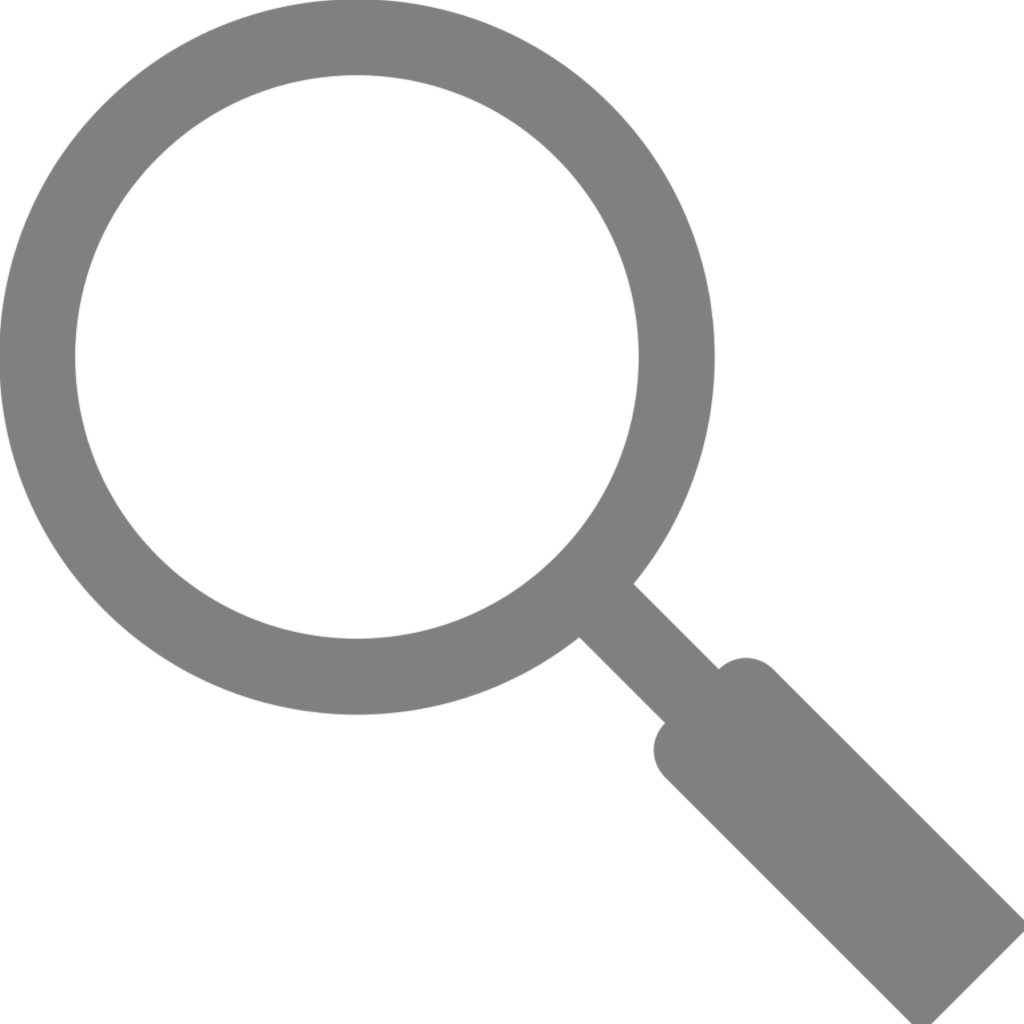
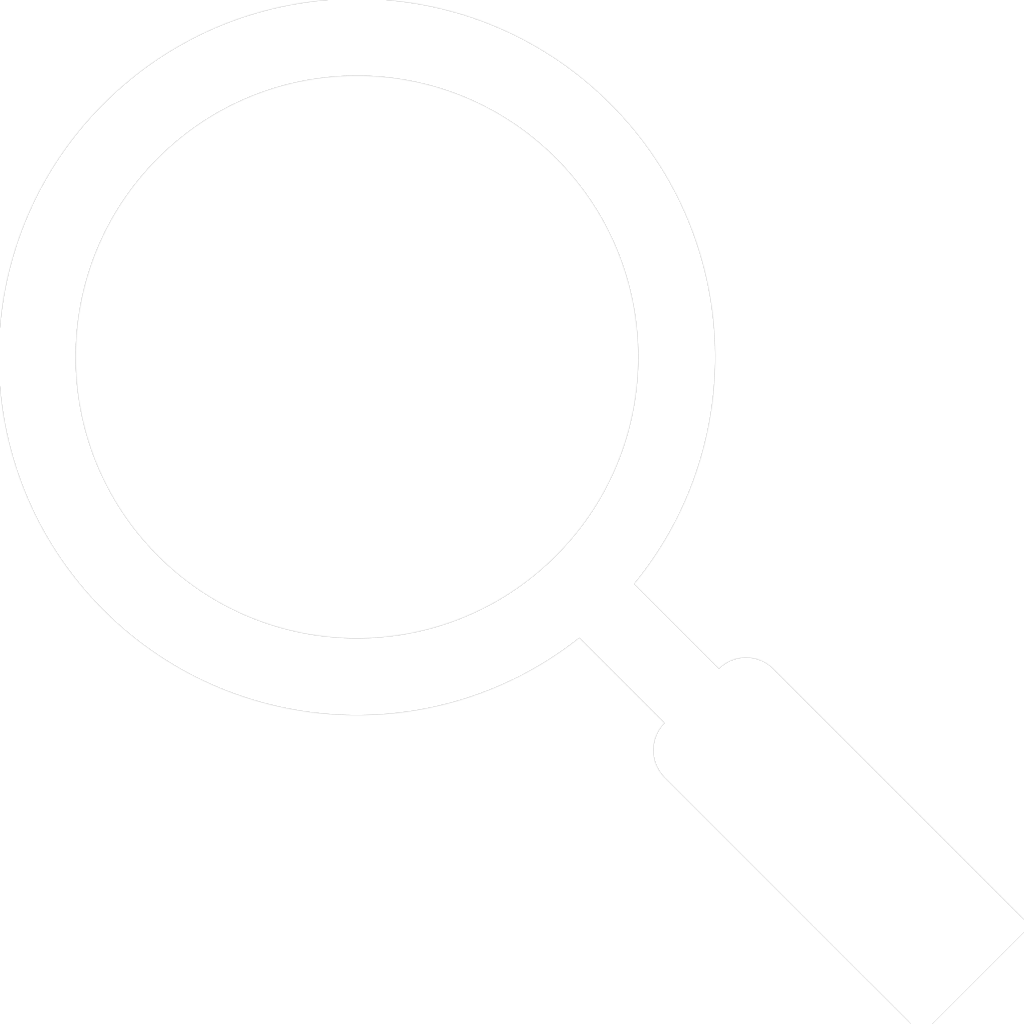
Add files via upload

Changed region(s): [[0.0, 0.0, 1.0, 1.0]]

diff --git a/index.html b/index.html
@@ -81,6 +81,8 @@ nav[aria-label="Navigation principale"] {
      margin-right: 10px;
      display: block;
      flex-shrink: 0;
+     filter: none !important;
+     opacity: 1 !important;
  }
  
  .logo span { white-space: nowrap; }
@@ -153,6 +155,8 @@ nav[aria-label="Navigation principale"] {
     width: 20px;
     height: 20px;
     background: url('loupe.png') no-repeat center / contain;
+    filter: none !important;
+    opacity: 1 !important;
 }
 
 /* Carousel */
@@ -580,10 +584,10 @@ html {
     .nav-links { display: flex; } /* Show search button on mobile */
     .nav-links a { padding: 8px 12px; font-size: 14px; width: auto; flex: 0 0 auto; }
     .nav-links a:not([href*="youtu"]) { padding: 6px 10px; }
-    .nav-links .search-link { padding: 10px; font-size: 16px; background: #f5f7fa !important; border-radius: 50%; width: 44px; height: 44px; border: 1px solid rgba(0,0,0,0.1); box-shadow: 0 1px 3px rgba(0,0,0,0.12); } /* Compact search button on mobile */
+    .nav-links .search-link { padding: 10px; font-size: 16px; background: #434344 !important; border-radius: 50%; width: 44px; height: 44px; border: 1px solid #3a3a3b; box-shadow: 0 2px 6px rgba(0,0,0,0.25); } /* Darker grey button on mobile */
     .nav-links .search-link { text-indent: -9999px; overflow: hidden; position: relative; }
     /* Mobile: hide text and center the image icon */
-    .nav-links .search-link::before { content: ''; position: absolute; left: 50%; top: 50%; transform: translate(-50%, -50%); width: 22px; height: 22px; background: url('loupe.png') no-repeat center / contain; }
+    .nav-links .search-link::before { content: ''; position: absolute; left: 50%; top: 50%; transform: translate(-50%, -50%); width: 24px; height: 24px; background: url('loupe.png') no-repeat center / contain; filter: none !important; opacity: 1 !important; }
     .logo span { overflow: hidden; text-overflow: ellipsis; color: #2B22EE; }
 
     /* Hide and fully disable carousel on mobile */

diff --git a/search.html b/search.html
@@ -228,14 +228,14 @@ a {
     }
     
     #search-input {
-        background: rgba(255, 255, 255, 0.7) !important;
-        color: #0b1117; /* dark text for contrast on light bg */
-        border: 1px solid rgba(0,0,0,0.15);
+        background: #434344 !important;
+        color: #ffffff;
+        border: 1px solid #3a3a3b;
         width: 100%;
     }
-    #search-input::placeholder { color: rgba(17, 24, 39, 0.6); }
+    #search-input::placeholder { color: rgba(255, 255, 255, 0.7); }
     #search-input:focus {
-        background: rgba(255, 255, 255, 0.85) !important;
+        background: #3e3e3f !important;
         border-color: #2B22EE;
     }
     
